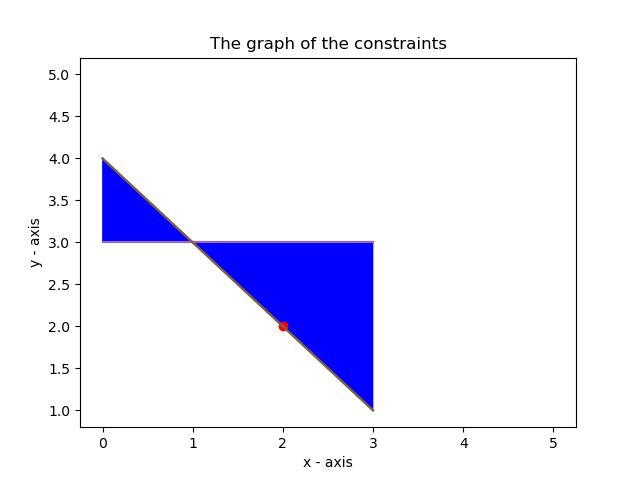
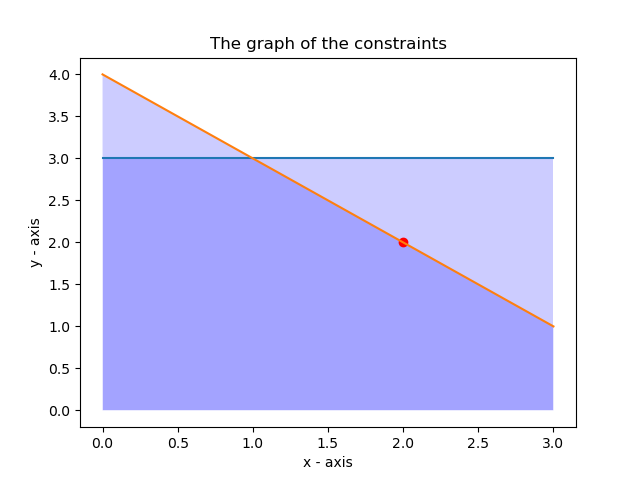
2d graphic has been added

diff --git a/simple.py b/simple.py
@@ -6,10 +6,38 @@ from PIL import ImageTk, Image
 import sys
 from fractions import Fraction
 import copy
+import math
+from mpl_toolkits.mplot3d import Axes3D
 
 # This function does everything with the graphing
 def show3Dfunction(functions):
-    return functions
+
+    # This gets the max point to show the linear function
+    max_number = 0
+    length_of_matrix = len(functions)
+    for i in functions:
+        max_number = max(i[len(i) - 1], max_number)
+
+    fig = plt.figure()
+    ax = fig.add_subplot(111, projection='3d')
+
+    # create x,y
+    xx, yy = np.meshgrid(range(max_number), range(max_number))
+
+    list_of_planes = []
+
+    for i in functions:
+        x = i[-1]//i[0]
+        y = i[-1] // i[1]
+        z = i[-1] // i[2]
+        list_of_planes.append(np.array([x, y, z]))
+
+    for i in list_of_planes:
+
+        # calculate corresponding z
+        z = (i[0] * xx + i[1] * yy) * 1. / i[2]
+        ax.plot_surface(xx, yy, z, alpha=0.2)
+    return plt
 
 # This function does everything with the graphing
 def show2Dfunction(functions):
@@ -23,36 +51,24 @@ def show2Dfunction(functions):
     x = np.array(range(0, max_number))
 
     array_of_functions = []
-
+    array_of_functions.append(eval("0*x"))
     # Adds the linear function to the graph
-    for i in range(length_of_matrix - 1):
+    for i in range(1, length_of_matrix - 1):
         y = eval("(" + str(functions[i][-1]) + "-" + str(functions[i][0]) + "*x)/" + str(functions[i][1]))
+        print(y)
         plt.plot(x, y)
         array_of_functions.append(y)
     # Saves the image, this is necesary because we need to open it later
-    plt.grid()
+    #plt.grid()
     plt.xlabel('x - axis')
     plt.ylabel('y - axis')
     plt.title('The graph of the constraints')
 
-    plt.fill(5, 5, "b")
+    print(array_of_functions)
+    for i in range(1,len(array_of_functions)):
+        plt.fill_between(x,array_of_functions[0], array_of_functions[i], where=(array_of_functions[i] >= 0), facecolor='blue', alpha=0.2)
 
-    # Adds the linear function to the graph
-    for i in range(length_of_matrix - 1):
-        y = eval("(" + str(functions[i][-1]) + "-" + str(functions[i][0]) + "*x)/" + str(functions[i][1]))
-        plt.plot(x, y)
-        array_of_functions.append(y)
-    # Saves the image, this is necesary because we need to open it later
-    plt.grid()
-    plt.xlabel('x - axis')
-    plt.ylabel('y - axis')
-    plt.title('The graph of the constraints')
 
-    for i in range(0, len(array_of_functions)):
-        for j in range(0, len(array_of_functions)):
-            if i != j:
-                plt.fill_between(x, array_of_functions[i], array_of_functions[j],
-                                 where=((array_of_functions[i] >= 0) & (array_of_functions[j] >= 0)), facecolor='blue', alpha=0.5)
     plt.savefig('graph.png')
     return plt
 
@@ -170,17 +186,25 @@ def return_result(matrix_function, dim, plt):
 
     list = []
     point = [0] * 10
+    points_into_the_graphic = []
+
     for i in matrix_function:
         for j in range(0,dim):
             if int(i[j]) == 1:
                 list.append("X" + str(j+1) + "------>" + str(Fraction(i[-1]).limit_denominator()))
                 point[j] = Fraction(i[-1]).limit_denominator()
+                points_into_the_graphic.append(i[-1])
     list.append("Resultado ------>" + str( Fraction(matrix_function[len(matrix_function)-1][len(matrix_function[0])-1]).limit_denominator() ))
     if dim == 2:
         plt.scatter(point[0], point[1], label='Result', color='r')
+        plt.savefig('result_graph.png')
     elif dim == 3:
-        plt.scatter(point[0], point[3], point[2], label='Result', color='r')
-    plt.savefig('result_graph.png')
+
+        print(points_into_the_graphic)
+        fig = plt.figure()
+        ax = fig.add_subplot(111, projection='3d')
+        ax.scatter(points_into_the_graphic[0],points_into_the_graphic[1], points_into_the_graphic[2], color='green')
+
     return list
 
 def thirdwindowfunction(matrices, changes, plt, matrix_function, dim):
@@ -198,17 +222,20 @@ def thirdwindowfunction(matrices, changes, plt, matrix_function, dim):
     third_window.geometry('{}x{}+{}+{}'.format(width + 800, height + 800, x - 300, y - 300))
     if matrices == []:
 
+
         matrix_function = return_result(matrix_function, dim, plt)
         for i in range(len(matrix_function)):
             function_label = Label(third_window, text=matrix_function[i])
             function_label.place(x=200, y=30*(i+1))
 
-        # Open the image
-        img = ImageTk.PhotoImage(Image.open("result_graph.png"))
-        # Saves it on a label
-        panel = Label(third_window, image=img)
-        # Place it
-        panel.place(x=150, y=300)
+        if dim == 2:
+            # Open the image
+            img = ImageTk.PhotoImage(Image.open("result_graph.png"))
+            # Saves it on a label
+            panel = Label(third_window, image=img)
+            # Place it
+            panel.place(x=150, y=300)
+
         third_window.mainloop()
     else:
 
@@ -309,14 +336,13 @@ def secondwindowfunction(first_window, matrix_function,dim):
     elif dim == 3:
         plt = show3Dfunction(matrix_function)
 
-        # Open the image
-        img = ImageTk.PhotoImage(Image.open("graph.png"))
-        # Saves it on a label
-        panel = Label(second_window, image=img)
-        # Place it
-        panel.place(x=80, y=250)
-        # This is necesary to open the window
 
+        # The buttton
+        button = Button(second_window, text="Next", command=lambda: calculate(
+            second_window, matrices, changes, matrix_function, plt, dim))
+
+        button.place(x=800, y=450)
+        plt.show()
     # The buttton
     button = Button(second_window, text="Next", command=lambda: calculate(
         second_window, matrices, changes, matrix_function, plt, dim))
@@ -354,10 +380,14 @@ def firstwindowfunction():
 
     dim = 0
 
-    for i in file_function_int[len(file_function_int) - 1]:
+    print(file_function_int[len(file_function_int) - 1])
 
-        if i != 0:
+    for i in range(len(file_function_int[0])):
+        print(file_function_int[len(file_function_int)-1][i])
+        if file_function_int[len(file_function_int)-1][i] != 0:
             dim = dim + 1
+        else:
+            break
 
     secondwindowfunction(first_window, file_function_int,dim)
 

diff --git a/3d.py b/3d.py
@@ -16,7 +16,7 @@ d = -point.dot(normal)
 xx, yy = np.meshgrid(range(10), range(10))
 
 # calculate corresponding z
-z = (-normal[0] * xx - normal[1] * yy - d) * 1. /normal[2]
+z = (-normal[0] * xx - normal[1] * yy - d) * 1. / normal[2]
 
 
 fig = plt.figure()
